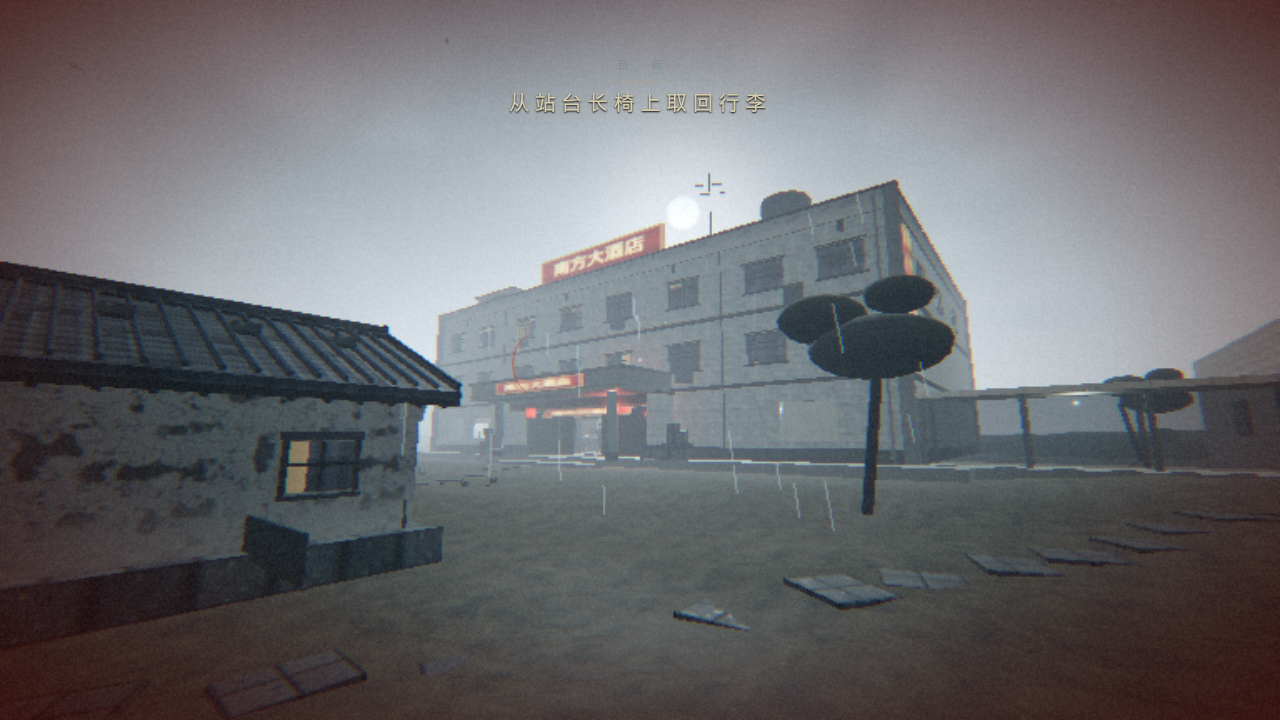
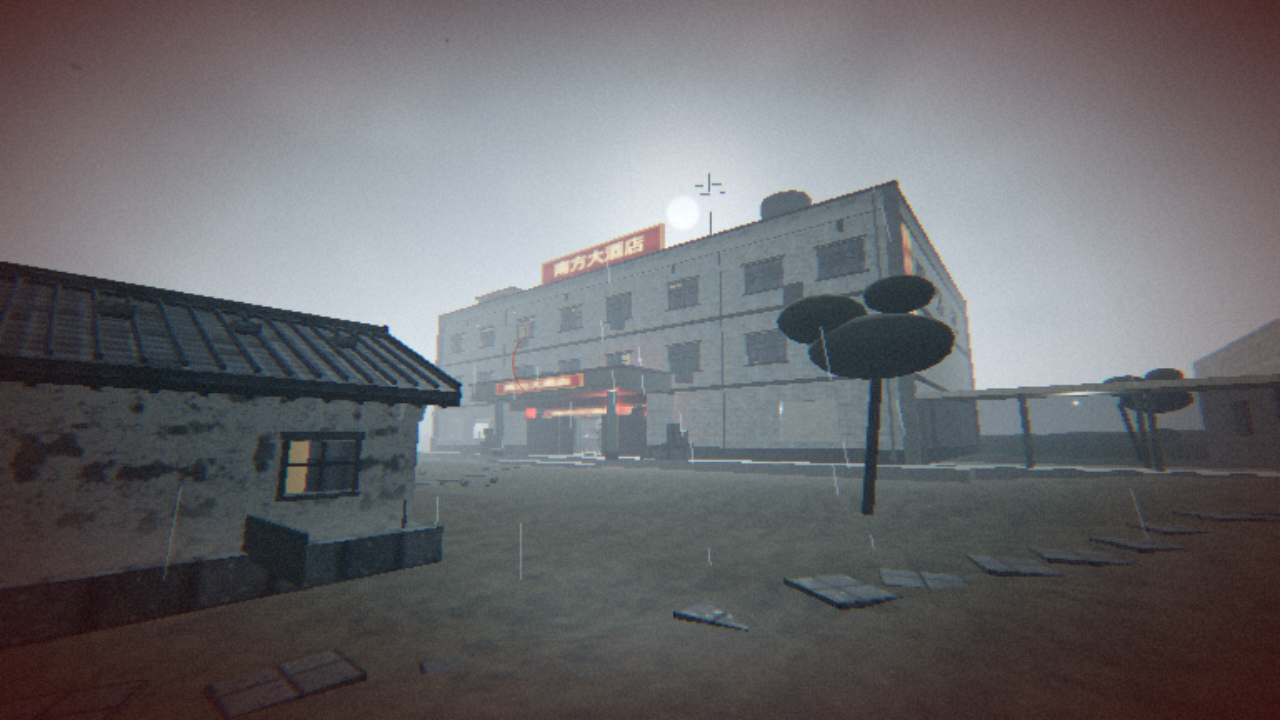
轮16D 门3攻坚·镇前街denser远景四层构图：①天上乱——同杆列再压一路更松的通信线,电话亭下户线,杆头垂断头线一截 ②街空有字——红底白字「防台防汛·人人有责」横幅横跨街面(北灯杆→南竹竿,系绳两道),更远一层暗红「今夜核册·关灯闭户」横幅一角脱扣斜挂;北侧人行道立杆招牌三面(五金日杂/白鹤旅社灯箱微光+收废品换煤气木牌) ③雨里有人——打伞站着不动的行人剪影三具(大衣身/肩围/伞锥藏头,不挡视线碰撞) ④地上亮——街心积水链五洼(同镜洼配方写模板,幻潮镜像层可显形);r16取证37/38双机位(镇口西望/横幅下中景)

diff --git a/src/world/town.js b/src/world/town.js
@@ -771,6 +771,78 @@ export function buildTown(scene, M) {
         circle(px2, pz2, 0.2, pb + 5.0, { noSightBlock: true });
         B.add(GEO.box, M.ironDark, px2, pb + 4.35, pz2, 1.1, 1.2, 0.09, 0.09);
       }
+      // —— 轮16：镇前街 denser 远景层（门3）——通信线一路/断头垂线/横幅两道/
+      // 立杆招牌三面/行人剪影三具/路面积水链——远看这条街要有「天上乱、地上亮、
+      // 街边有字、雨里有人」四层 ——
+      {
+        // 低压通信线：同一排杆再压一条更松的线（天际线要「乱」）
+        for (let i = 0; i < poleTops.length - 1; i++) {
+          const [x1, z1] = poleTops[i], [x2, z2] = poleTops[i + 1];
+          wire(x1, g(x1, z1) + 3.7, z1, x2, g(x2, z2) + 3.7, z2, 0.85);
+        }
+        // 电话亭下户线 + 杆头垂着的一截断头线
+        wire(30.5, g(30.5, 2.2) + 4.3, 2.2, 31.6, g(31.6, -5.2) + 2.5, -5.0, 0.6);
+        wire(21, g(21, -4.6) + 4.4, -4.6, 21.7, g(21, -4.6) + 2.2, -4.0, 0.12);
+        // 横幅①（红底白字·防汛）：北灯杆→南竹竿，横跨街面
+        B.add(GEO.cyl, M.woodDark, 30.0, g(30.0, -5.6) + 2.1, -5.6, 0, 0.06, 4.2, 0.06);
+        const ban1 = plateMat('防 台 防 汛 · 人 人 有 责', { w: 640, h: 56, bg: '#8c1616', fg: '#f0e6d0', font: 0.5 });
+        B.add(GEO.box, ban1, 30.25, g(30.3, -1.7) + 3.62, -1.7, Math.PI / 2 - 0.06, 7.4, 0.6, 0.04, 0, 0.05);
+        wire(30.5, g(30.5, 2.2) + 4.0, 2.2, 30.3, g(30.3, -1.7) + 3.95, 1.95, 0.1);
+        wire(30.0, g(30.0, -5.6) + 4.1, -5.6, 30.2, g(30.3, -1.7) + 3.9, -5.3, 0.1);
+        // 横幅②（暗红·核册夜，一角脱扣斜着）：更远一层进深
+        B.add(GEO.cyl, M.woodDark, 19.0, g(19.0, -7.2) + 1.9, -7.2, 0, 0.055, 3.8, 0.055);
+        const ban2 = plateMat('今 夜 核 册 · 关 灯 闭 户', { w: 640, h: 56, bg: '#5a1414', fg: '#c8a860', font: 0.5 });
+        B.add(GEO.box, ban2, 19.6, g(19.6, -3.2) + 3.28, -3.2, Math.PI / 2 + 0.1, 6.9, 0.56, 0.04, 0, -0.12);
+        // 立杆招牌三面（两只灯箱微光+一面木牌）：沿北侧人行道排开——远景里一层「字」
+        const signPost = (x, z, txt, opts, hSign, ry2) => {
+          const b2 = g(x, z);
+          B.add(GEO.cyl, M.woodDark, x, b2 + 1.45, z, 0, 0.05, 2.9, 0.05);
+          B.add(GEO.box, plateMat(txt, opts), x, b2 + hSign, z, ry2, 1.15, 0.5, 0.07);
+          B.add(GEO.box, M.ironDark, x, b2 + hSign + 0.29, z, ry2, 1.2, 0.05, 0.09);
+        };
+        signPost(33.8, 2.5, '五金 · 日杂', { w: 288, h: 96, bg: '#274a26', fg: '#e8e0c8', font: 0.42, emissive: 0.35 }, 2.42, Math.PI / 2 + 0.08);
+        signPost(27.5, 1.5, '白鹤旅社', { w: 288, h: 96, bg: '#173a4a', fg: '#f0d28c', font: 0.46, emissive: 0.45 }, 2.3, Math.PI / 2 - 0.05);
+        signPost(15.5, -2.4, '收废品 换煤气', { w: 320, h: 96, bg: '#6a5636', fg: '#2c2418', font: 0.4 }, 2.2, Math.PI / 2 + 0.14);
+        // 行人剪影三具：打伞站着不动的人——雨里的一层「人形」，走近了也不抬头
+        const pedM = new THREE.MeshStandardMaterial({ color: 0x14161a, roughness: 0.96 });
+        const umbM = new THREE.MeshStandardMaterial({ color: 0x0d0f12, roughness: 0.85 });
+        const ped = (x, z, face) => {
+          const b2 = g(x, z);
+          B.add(GEO.box, pedM, x - 0.07, b2 + 0.36, z, face, 0.11, 0.72, 0.13);
+          B.add(GEO.box, pedM, x + 0.07, b2 + 0.35, z + 0.02, face, 0.11, 0.7, 0.13);
+          B.add(GEO.box, pedM, x, b2 + 1.06, z, face, 0.42, 0.72, 0.3);     // 大衣身
+          B.add(GEO.box, pedM, x, b2 + 1.5, z, face, 0.3, 0.18, 0.24);      // 肩围
+          B.add(GEO.sphere, pedM, x, b2 + 1.58, z, face, 0.17, 0.2, 0.19);  // 头（藏在伞影里）
+          const um = new THREE.Mesh(new THREE.ConeGeometry(0.56, 0.2, 9), umbM);
+          um.position.set(x + Math.sin(face) * 0.06, b2 + 1.88, z + Math.cos(face) * 0.06);
+          scene.add(um);
+          const st = new THREE.Mesh(new THREE.CylinderGeometry(0.014, 0.014, 0.5, 5), umbM);
+          st.position.set(x + Math.sin(face) * 0.06, b2 + 1.62, z + Math.cos(face) * 0.06);
+          scene.add(st);
+          circle(x, z, 0.28, b2 + 1.7, { noSightBlock: true });
+        };
+        ped(24.5, -4.3, 2.2);
+        ped(17.2, -5.9, -1.4);
+        ped(14.3, -3.6, 2.9);
+        // 路面积水链（同镜洼配方：写模板供幻潮镜像层）——街心一路亮到雾里
+        const pm2 = new THREE.MeshStandardMaterial({
+          color: 0x11171a, roughness: 0.04, metalness: 0.92, envMapIntensity: 1.8,
+        });
+        pm2.stencilWrite = true;
+        pm2.stencilRef = 1;
+        pm2.stencilZPass = THREE.ReplaceStencilOp;
+        const pg2 = new THREE.CircleGeometry(1, 16);
+        for (const [px3, pz3, s3, sq3] of [
+          [34, -1.6, 1.7, 0.42], [28.5, -2.6, 1.3, 0.5], [22.5, -4.2, 1.9, 0.4],
+          [15.2, -6.3, 1.3, 0.5], [12.6, -7.3, 1.0, 0.55],
+        ]) {
+          const p3 = new THREE.Mesh(pg2, pm2);
+          p3.rotation.x = -Math.PI / 2;
+          p3.scale.set(s3, s3 * sq3, 1);
+          p3.position.set(px3, g(px3, pz3) + 0.058, pz3);
+          scene.add(p3);
+        }
+      }
       if (wireGeos.length) {
         const wm = new THREE.Mesh(
           BufferGeometryUtils.mergeGeometries(wireGeos, false),
